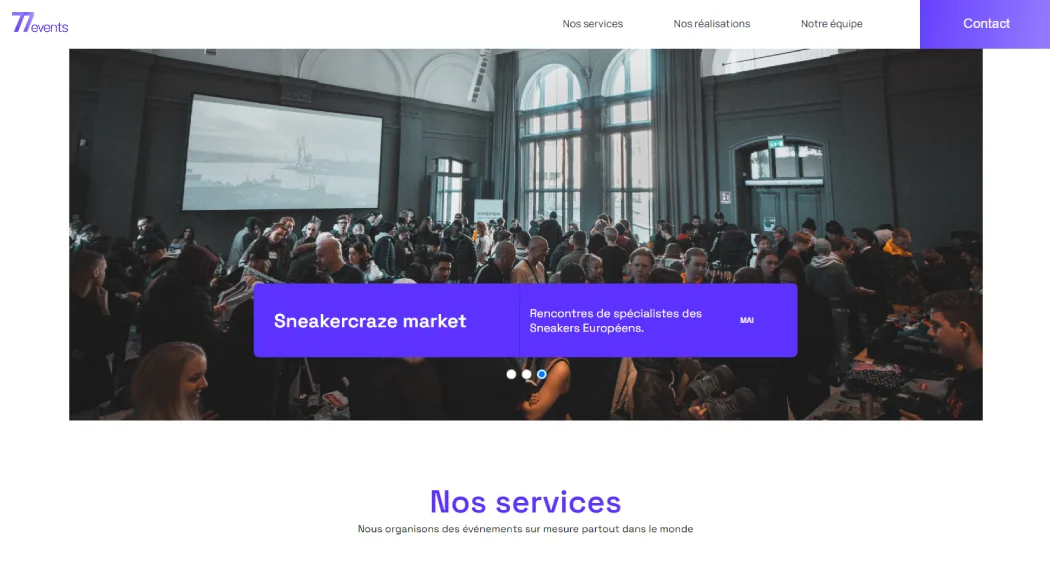
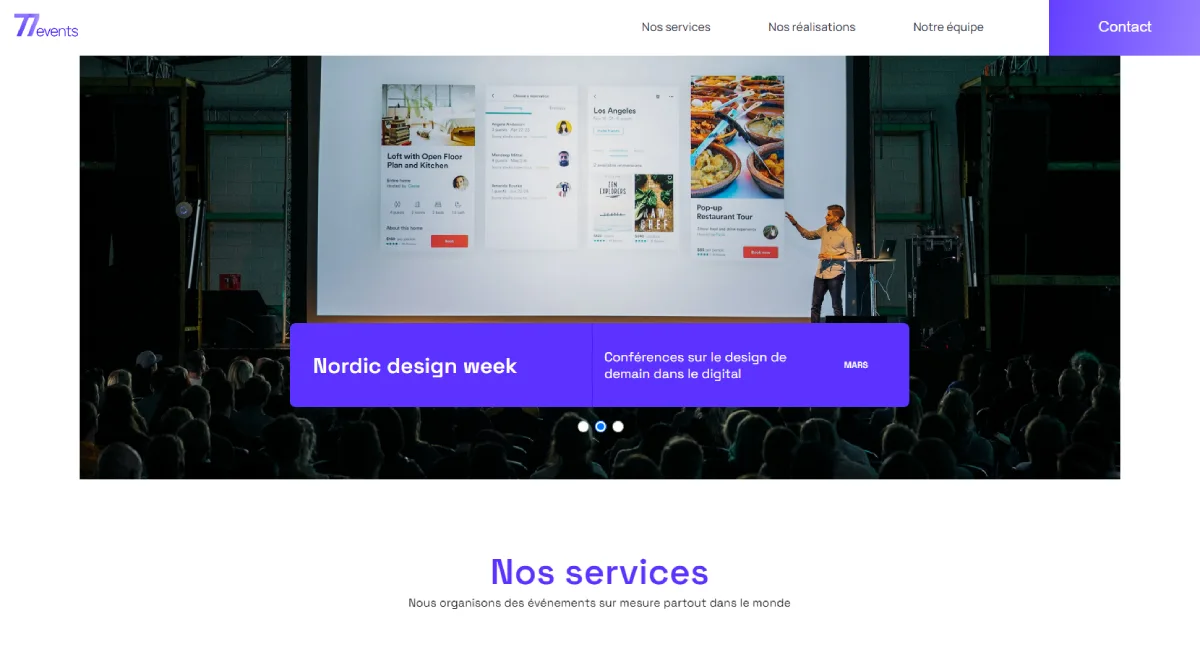
ajout des nouveaux projets

diff --git a/src/assets/styles.css b/src/assets/styles.css
@@ -943,44 +943,6 @@ h5 {
   }
 }
 
-.carousel {
-  display: flex;
-  justify-content: center;
-  margin-top: 30px;
-  max-width: 1140px;
-  padding: 0 30px;
-  align-self: center;
-  width: 100%;
-}
-@media (max-width: 1224px) {
-  .carousel {
-    max-width: 900px;
-  }
-}
-.carousel .carousel-container {
-  display: flex;
-  gap: 25px;
-}
-@media (max-width: 1024px) {
-  .carousel .carousel-container {
-    width: 72%;
-  }
-}
-.carousel button {
-  display: flex;
-  align-items: center;
-  border: none;
-  background-color: unset;
-}
-.carousel button.arrow-previous-project {
-  justify-content: flex-start;
-  left: -5%;
-}
-.carousel button.arrow-next-project {
-  justify-content: flex-end;
-  left: 5%;
-}
-
 .stack-tags {
   display: flex;
   flex-wrap: wrap;
@@ -1091,7 +1053,7 @@ h5 {
   color: #ffffff;
   position: absolute;
   bottom: 5%;
-  font-size: 16px;
+  font-size: 18px;
   font-style: italic;
   padding: 10px 20px 10px 10px;
   width: auto;

diff --git a/src/styles/components/_slider.scss b/src/styles/components/_slider.scss
@@ -40,7 +40,7 @@
         color: variables.$light;
         position: absolute;
         bottom: 5%;
-        font-size: 16px;
+        font-size: 18px;
         font-style: italic;
         padding: 10px 20px 10px 10px;
         width: auto;

diff --git a/src/styles/main.scss b/src/styles/main.scss
@@ -16,7 +16,6 @@
 @use "./components/portfolio";
 @use "./components/projectCard";
 @use "./components/projectsList";
-@use "./components/projectsCarousel";
 @use "./components/projectTags";
 @use "./components/slider";
 
